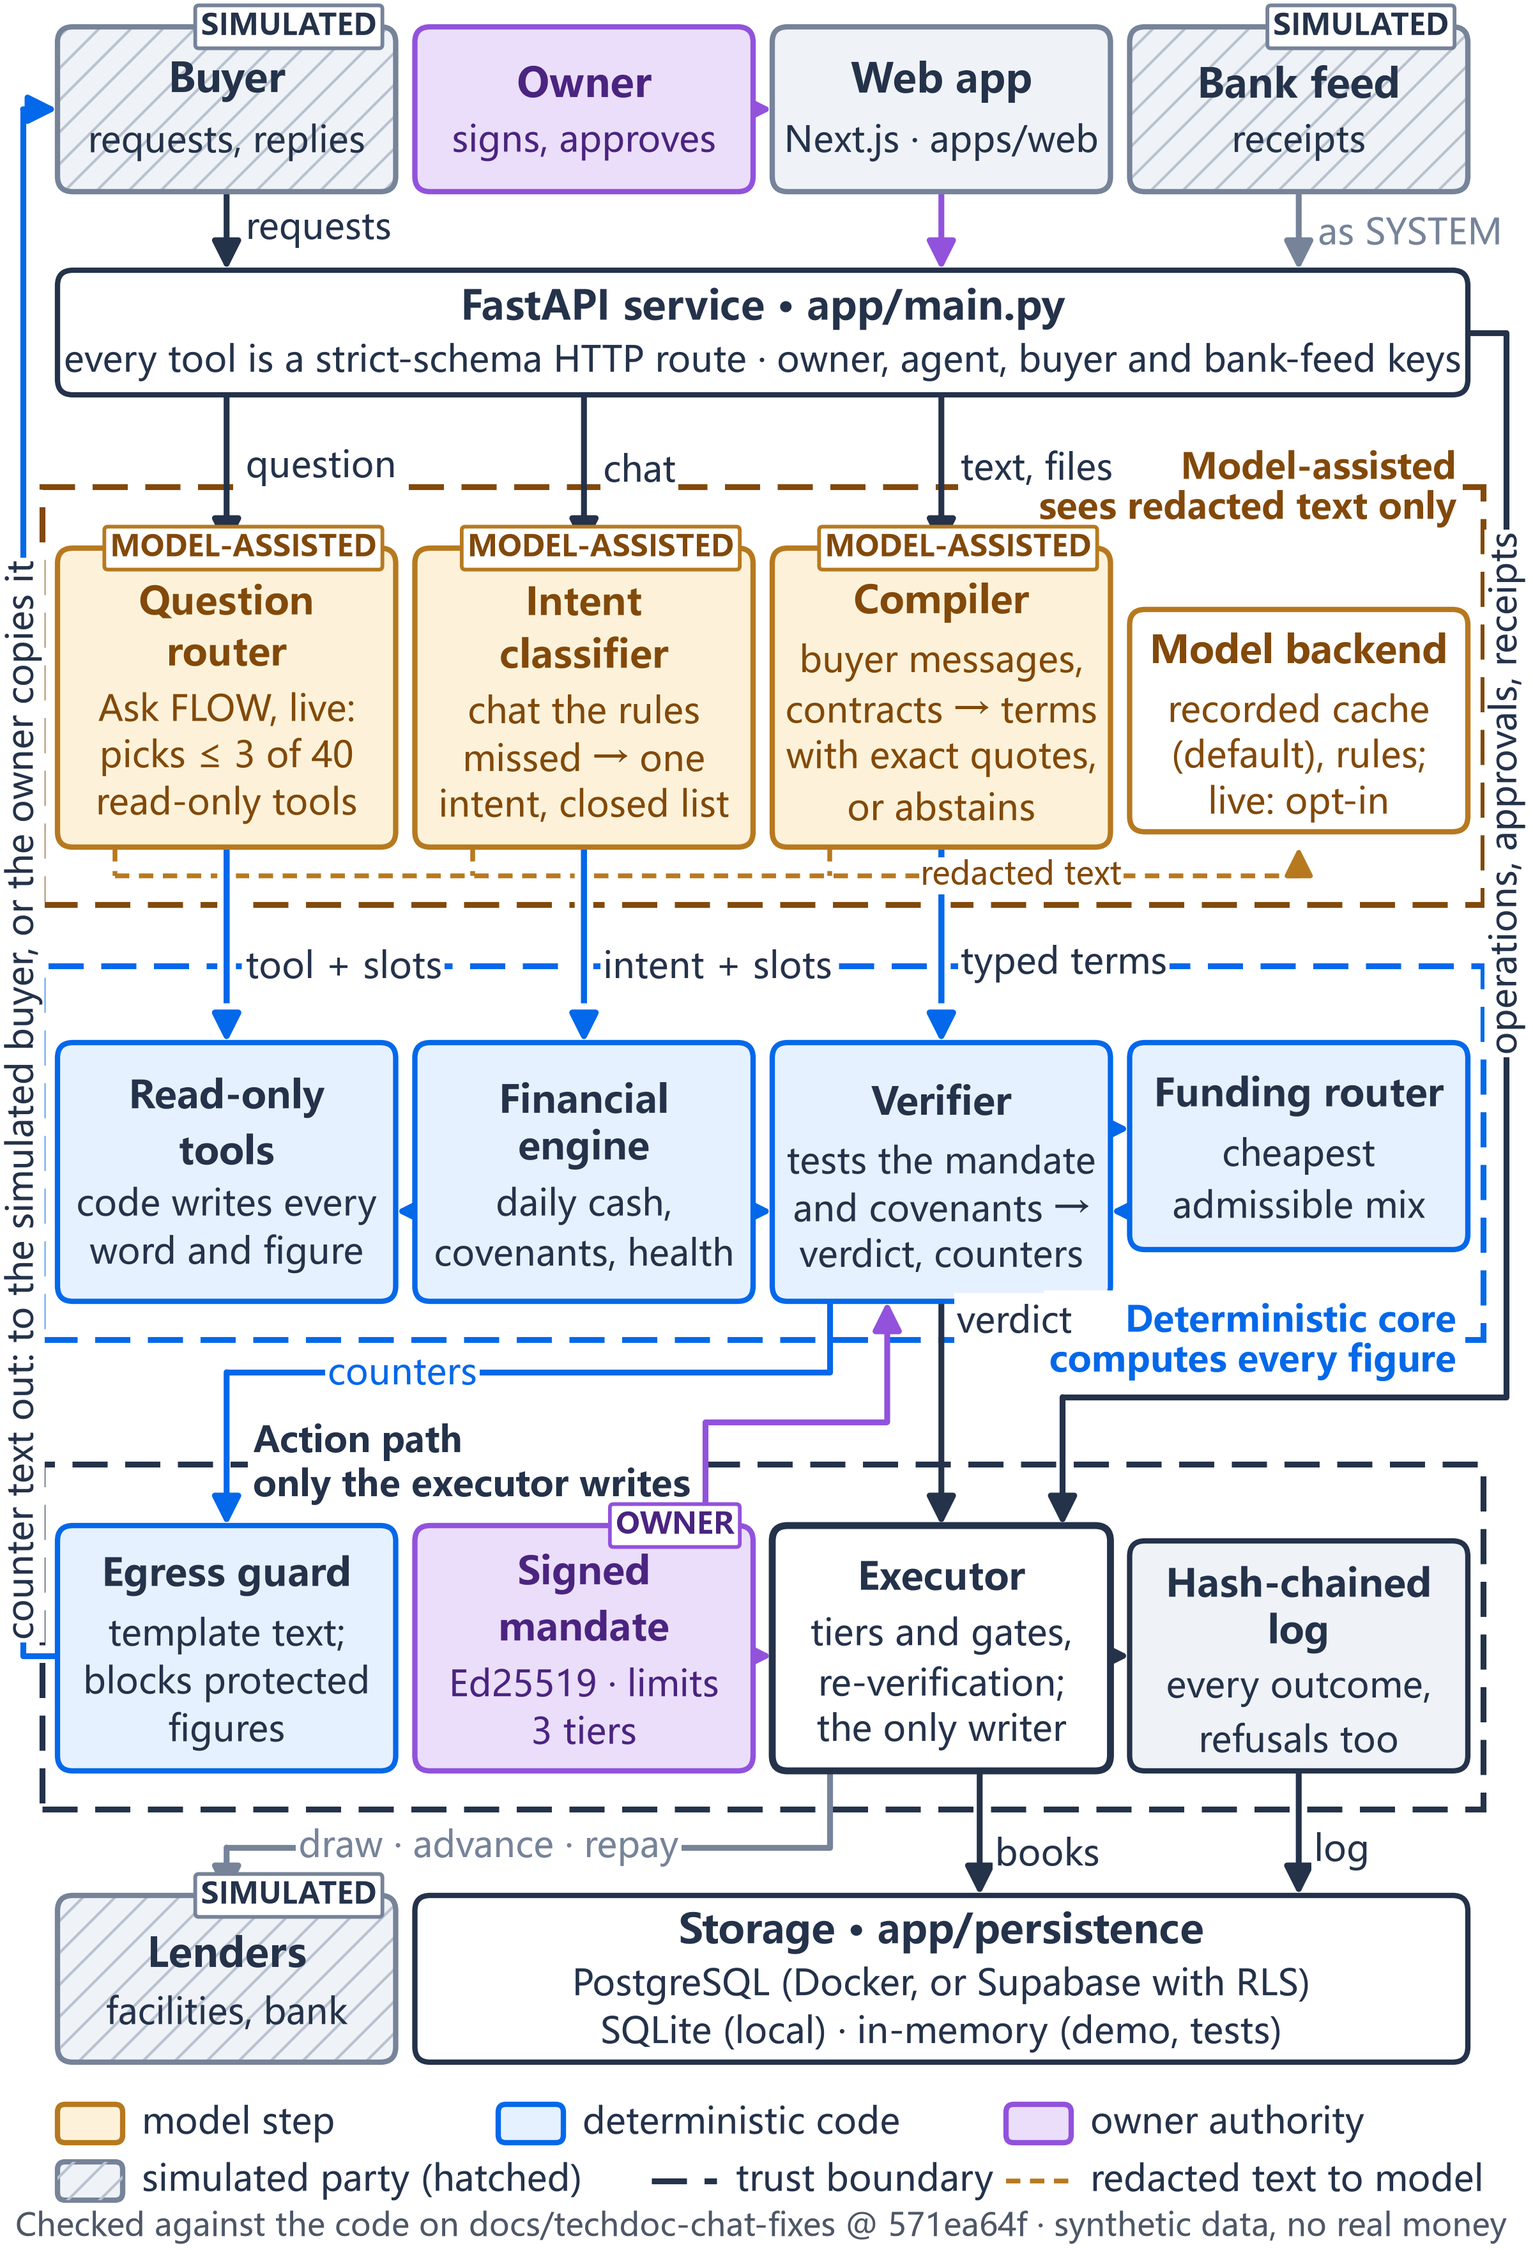
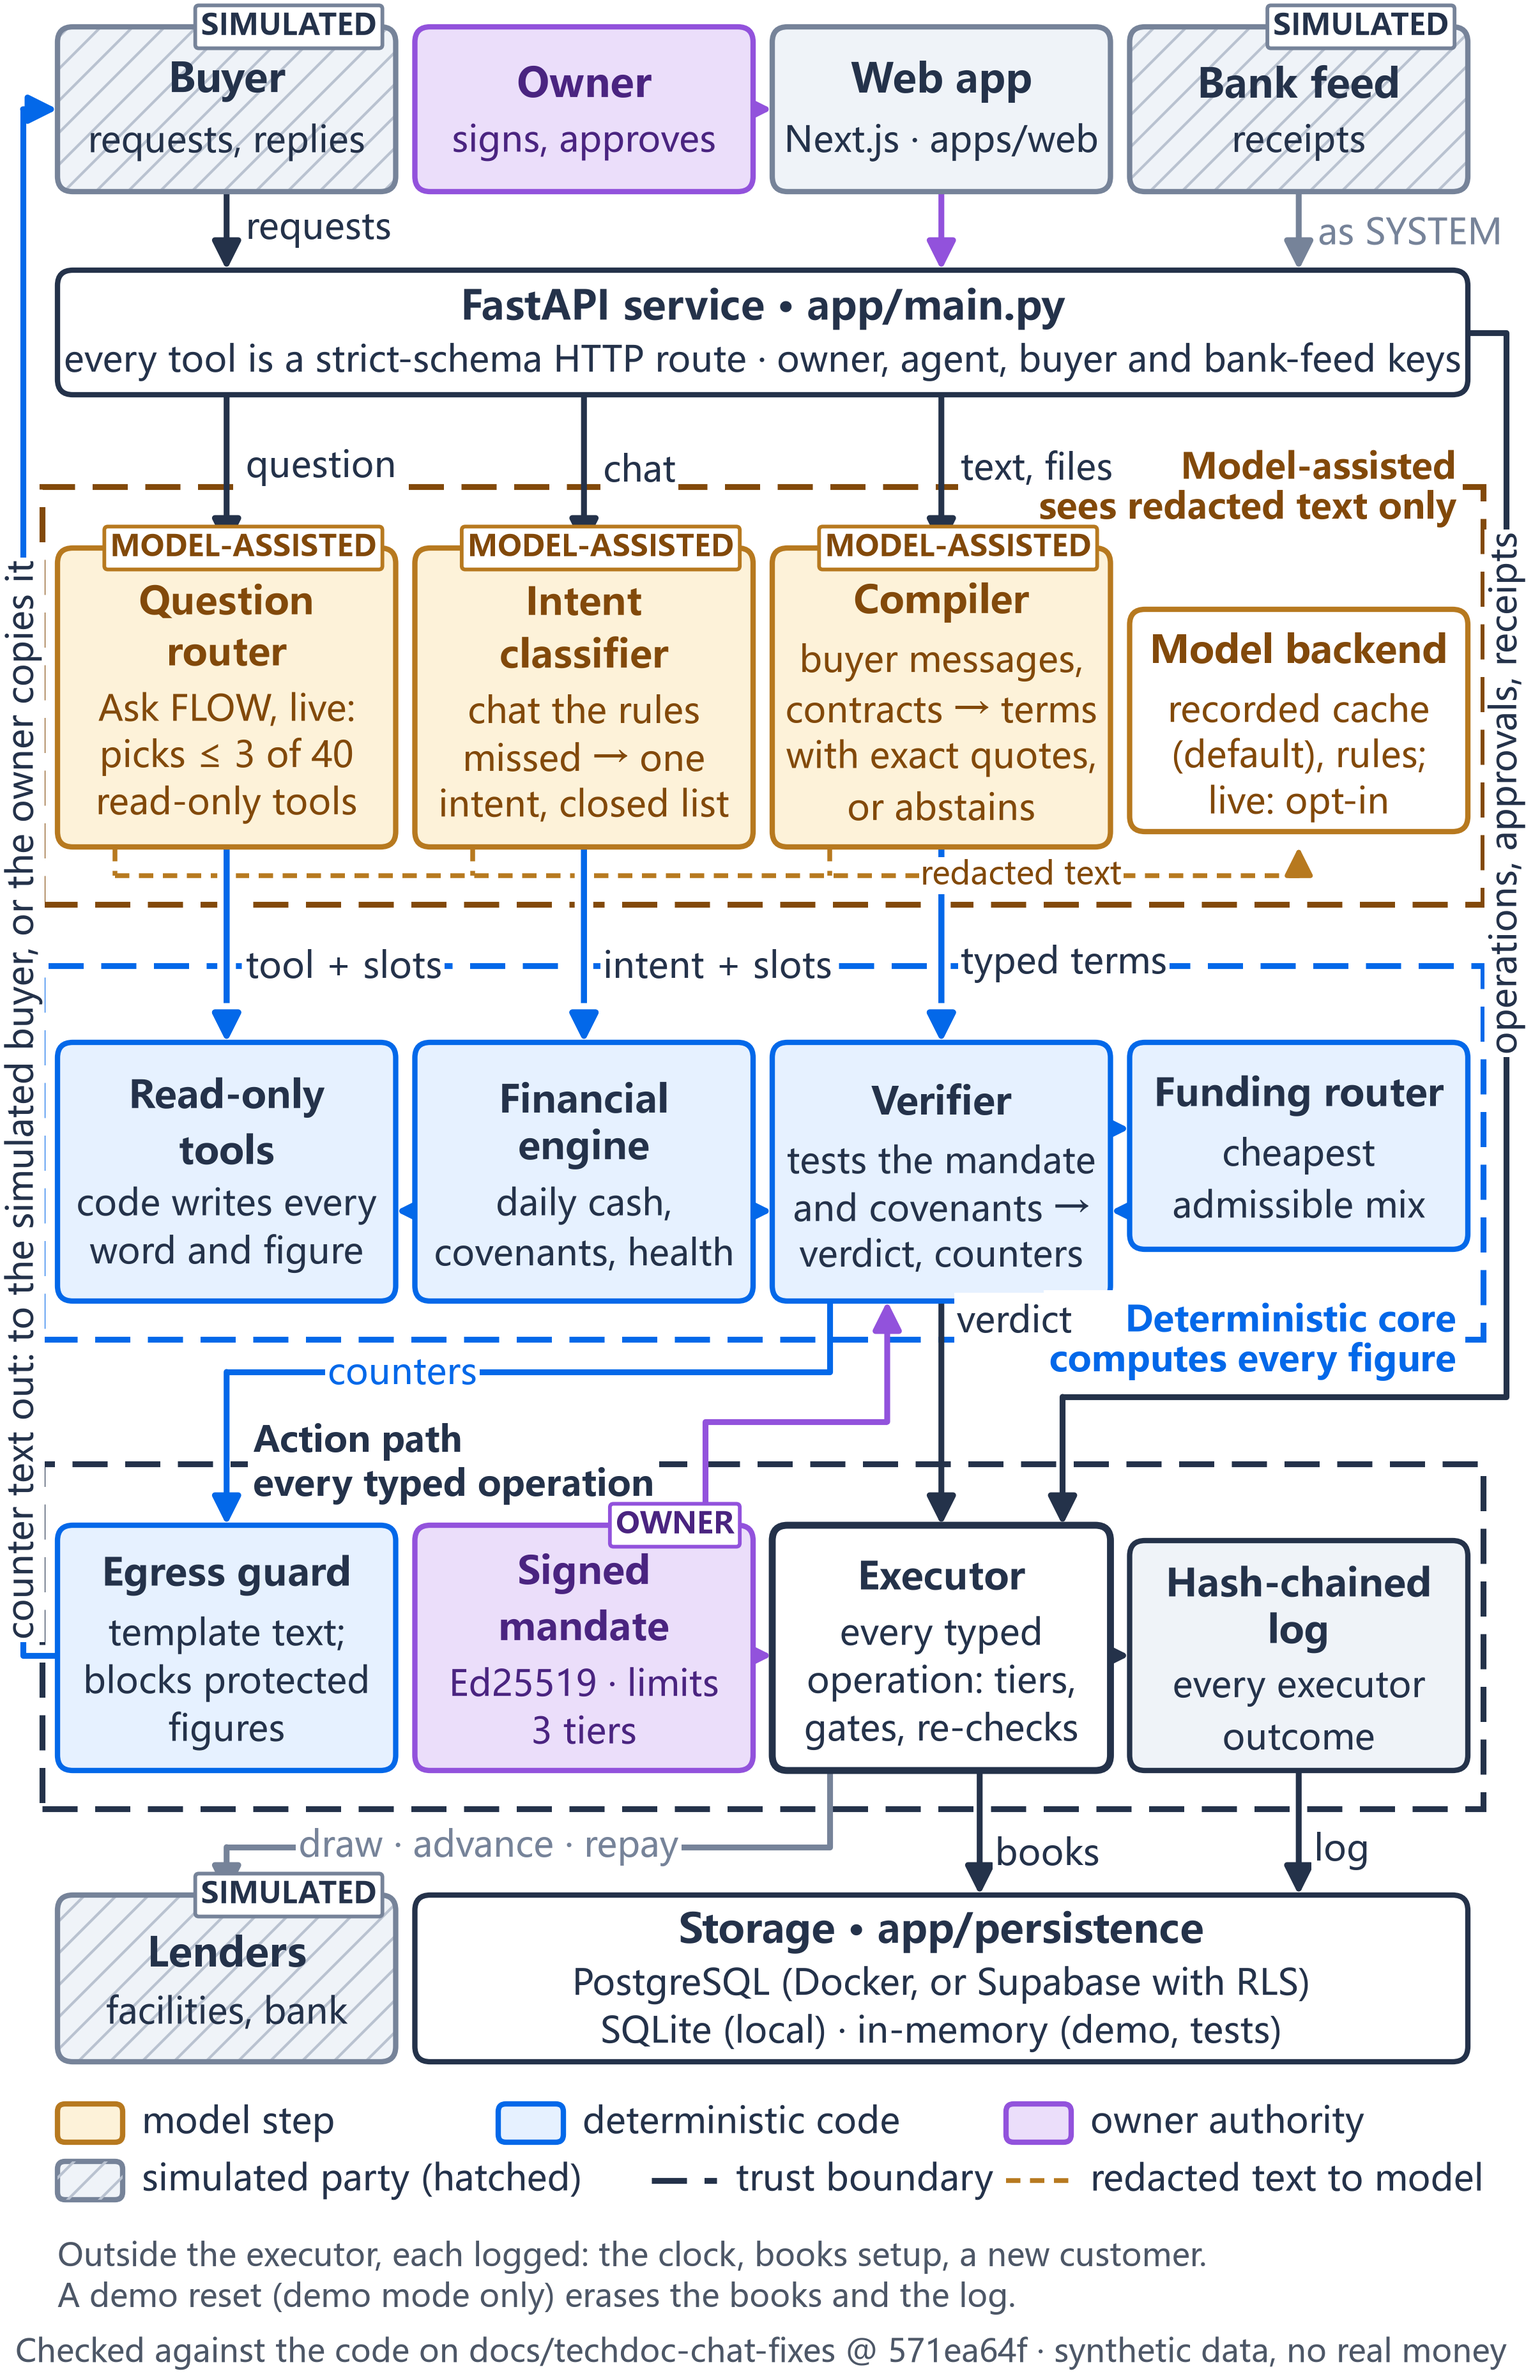
docs(techdoc): scope the executor in fig8, approval wording in fig10
Figure 3 (fig8) said "only the executor writes", "the only writer" and
"every outcome, refusals too"; section 02 and 04 name writes outside
the executor. Figure 7 (fig10) printed "APR <= 15%" as if a hard limit.

- fig8: the action path covers every typed operation; the executor box
  says so; the log keeps every executor outcome; a footnote names the
  logged writes outside it (clock, books setup, a new customer) and the
  demo reset that erases books and log
- fig10: "owner approves APR > 15%, commitment > ¥100k"
- Regenerate both PNGs; README alt text follows

Refs: docs/deliverables/submission/work/claim_register.md E2, D10, D12

diff --git a/docs/deliverables/figures/src/fig8_system_architecture.py b/docs/deliverables/figures/src/fig8_system_architecture.py
@@ -14,8 +14,8 @@ services/api:
        the read-only tools of the closed catalogue with typed slots; the tools (code) write every word and figure.
 - Deterministic: app/financial (trajectory), app/covenants, app/health; app/verifier (verdict, counters); app/funding/router.py;
   app/egress/guard.py (outbound text, POST /negotiate and the outbound message, app/api/decide.py and outbound.py);
-  app/mandate (Ed25519-signed, pinned to the owner key); app/operations/executor.py (tiers, gates, the only writer of the
-  books); app/operations/log.py + app/persistence/chain.py (hash-chained log).
+  app/mandate (Ed25519-signed, pinned to the owner key); app/operations/executor.py (tiers and gates for every typed
+  operation; the clock, books setup and adding a customer write outside it, each logged, and a demo reset erases the books); app/operations/log.py + app/persistence/chain.py (hash-chained log).
 - Simulated: the buyer (app/counterparties, deterministic kernel, or the owner pastes a real buyer's words), the lenders and
   facilities (effects inside the executor) and the bank feed (RECEIVE_PAYMENT as SYSTEM; app/api/demo_bank.py in demo mode).
 - Storage: app/persistence: SqlLedgerStore (PostgreSQL via Docker or Supabase with RLS; SQLite locally) or InMemoryLedgerStore.
@@ -24,11 +24,13 @@ services/api:
 from matplotlib import patheffects as pe
 from matplotlib.patches import FancyBboxPatch, Rectangle
 
-from flowstyle import (AMBER, AMBER_INK, AMBER_SOFT, BLUE, BLUE_SOFT, BUILD, GREY, GREY_HATCH, GREY_SOFT, INK, MIN_PT,
+from flowstyle import (AMBER, AMBER_INK, AMBER_SOFT, BLUE, BLUE_SOFT, BUILD, GREY, GREY_HATCH, GREY_SOFT, INK, INK_2, MIN_PT,
                        PURPLE, PURPLE_SOFT, WHITE, arrow, box, canvas, kbox, save, stamp)
 
 H = 11.74
-fig, ax = canvas(H)
+FOOT = 0.66  # room below y = 0 for the note on writes outside the executor
+fig, ax = canvas(H + FOOT)
+ax.set_ylim(-FOOT, H)  # one data unit is still one inch
 W, G = 1.765, 0.1
 X = [0.3 + i * (W + G) for i in range(4)]  # four columns
 CX = [x + W / 2 for x in X]
@@ -69,7 +71,7 @@ CZ0, CZ1 = 4.75, 6.7
 PZ0, PZ1 = 2.3, 4.1
 zone(MZ0, MZ1, "Model-assisted", "sees redacted text only", AMBER_INK)
 zone(CZ0, CZ1, "Deterministic core", "computes every figure", BLUE, at="bottom-right")
-zone(PZ0, PZ1, "Action path", "only the executor writes", INK, at="top-left")
+zone(PZ0, PZ1, "Action path", "every typed operation", INK, at="top-left")
 
 # model row: router, classifier, compiler, backend
 MY0, MY1 = 7.32, 8.88
@@ -101,9 +103,9 @@ PY0, PY1 = 2.5, 3.78
 box(ax, X[0], PY0, W, PY1 - PY0, "Egress guard", "template text;\nblocks protected\nfigures", fill=BLUE_SOFT, edge=BLUE,
     **T)
 kbox(ax, X[1], PY0, W, PY1 - PY0, "Signed\nmandate", "Ed25519 · limits\n3 tiers", "owner", **T)
-box(ax, X[2], PY0, W, PY1 - PY0, "Executor", "tiers and gates,\nre-verification;\nthe only writer", fill=WHITE, edge=INK,
+box(ax, X[2], PY0, W, PY1 - PY0, "Executor", "every typed\noperation: tiers,\ngates, re-checks", fill=WHITE, edge=INK,
     lw=2.6, **T)
-box(ax, X[3], PY0, W, PY1 - PY0 - 0.08, "Hash-chained\nlog", "every outcome,\nrefusals too", fill=GREY_SOFT, edge=INK,
+box(ax, X[3], PY0, W, PY1 - PY0 - 0.08, "Hash-chained\nlog", "every executor\noutcome", fill=GREY_SOFT, edge=INK,
     **T)
 
 # bottom: simulated lenders, storage
@@ -170,6 +172,9 @@ ax.plot([3.4, 3.74], [LY[1], LY[1]], color=INK, lw=2.2, ls=(0, (6, 3)))
 ax.text(3.84, LY[1], "trust boundary", va="center", fontsize=MIN_PT, color=INK)
 ax.plot([5.25, 5.59], [LY[1], LY[1]], color=AMBER, lw=1.8, ls=(0, (3, 2)))
 ax.text(5.69, LY[1], "redacted text to model", va="center", fontsize=MIN_PT, color=INK)
+ax.text(0.3, -0.36, "Outside the executor, each logged: the clock, books setup, a new customer.\n"
+        "A demo reset (demo mode only) erases the books and the log.", va="bottom", fontsize=12, color=INK_2,
+        linespacing=1.2)
 stamp(fig, f"Checked against the code on {BUILD} · synthetic data, no real money", y_in=0.03)
 
 save(fig, "fig8-system-architecture.png")

diff --git a/docs/deliverables/figures/src/fig10_authority_matrix.py b/docs/deliverables/figures/src/fig10_authority_matrix.py
@@ -126,7 +126,7 @@ ax.text(X0 + 0.14, fy - 0.1, "The signed demo mandate (version 1, Ed25519, days 
         fontweight="bold", color=PURPLE_INK)
 ax.text(X0 + 0.14, fy - 0.42,
         "cash reserve ¥300,000 · discount ≤ 1.5% · future concessions ≤ ¥5,000 a year\n"
-        "DSCR ≥ 1.25× · leverage ≤ 2.5× · APR ≤ 15% · one new commitment ≤ ¥100,000",
+        "DSCR ≥ 1.25× · leverage ≤ 2.5× · owner approves APR > 15%, commitment > ¥100k",
         va="top", fontsize=MIN_PT, color=INK, linespacing=1.25)
 ax.text(X0, 0.3, "No caller can set a tier. An approved Tier 2 operation passes every gate again.",
         va="bottom", fontsize=12, color=INK_2)

diff --git a/docs/deliverables/figures/README.md b/docs/deliverables/figures/README.md
@@ -43,7 +43,7 @@ of 285), 12 wrong values and 18 stage items matching no key item; batch 2 after 
 (hatched, tuned). Live DeepSeek calls (amber): held-out 3 on 1 Oct, 67% (42 of 63), no wrong accepts; Ask router answers
 on 18 Oct, 67% right (22 of 33), 1 wrong and 10 partial. A note says each bar is a share of its own row's denominator and
 rows with different oracles do not compare.
-| `fig8-system-architecture.png` | FLOW's architecture: the three model-assisted steps see redacted text only and propose typed output; deterministic code computes every figure, and only the executor changes the books. | `src/fig8_system_architecture.py` | Read from the code on `docs/techdoc-chat-fixes` `571ea64f`: `app/main.py` routers, `app/compiler`, `app/nl/classifier.py`, `app/nl/router`, `app/egress/guard.py`, `app/operations/executor.py`, `app/persistence` |
+| `fig8-system-architecture.png` | FLOW's architecture: the three model-assisted steps see redacted text only and propose typed output; deterministic code computes every figure, and every typed operation goes through the executor; a footnote names the logged writes outside it (clock, books setup, a new customer) and the demo reset. | `src/fig8_system_architecture.py` | Read from the code on `docs/techdoc-chat-fixes` `571ea64f`: `app/main.py` routers, `app/compiler`, `app/nl/classifier.py`, `app/nl/router`, `app/egress/guard.py`, `app/operations/executor.py`, `app/persistence` |
 | `fig9-request-to-settlement.png` | One buyer request from request to settlement, marking what is only proposed, what is authorised, what is recorded and what has actually settled. | `src/fig9_request_to_settlement.py` | `app/api/offers.py`, `decide.py`, `accept.py`, `outbound.py`, the executor's `AcceptOffer`, `app/commitments`, `app/api/alerts.py`, `app/alerts/reconcile.py` (`571ea64f`) |
 | `fig10-authority-matrix.png` | The authority matrix: what FLOW may do inside the signed mandate (Tier 1), what waits for the owner (Tier 2) and what is refused whoever asks (Tier 3), with the demo mandate's limits. | `src/fig10_authority_matrix.py` | `app/mandate/tiers.py` `tier_for`; `fixtures/scenarios/golden_sme.mandate.signed.json` (`571ea64f`) |
 | `fig11-cash-scenarios.png` | The demo company's closing cash under four scenarios, days 0 to 62, against the ¥300,000 reserve, with nine dated events. Supersedes `fig4-golden-cash.png` in the technical document (Figure 4). | `src/fig11_cash_scenarios.py` | `../submission/work/fin/daily_cash.csv` and `events.csv` (financial audit, 18 Oct 2026): the independent recomputation from the golden fixtures, equal to the engine replayed through the API to the fen (`work/fin/compare.csv`, 39 of 39) |
@@ -68,9 +68,9 @@ helper shows a complete example; the financial chart of `docs/sub-financial-audi
   router, the intent classifier and the compiler, each sending redacted text to a model backend (recorded cache by default,
   a live provider only when opted in) and passing only typed output down. The deterministic core holds the read-only tools,
   the financial engine, the verifier and the funding router. The action path holds the egress guard, the owner-signed
-  mandate, the executor and the hash-chained log. The executor alone writes the books to storage (PostgreSQL, SQLite or
+  mandate, the executor and the hash-chained log. The executor writes every typed operation to storage (PostgreSQL, SQLite or
   in memory) and moves money only on simulated lenders; counter text leaves through the egress guard to the simulated buyer,
-  or the owner copies it.
+  or the owner copies it. A footnote names the writes outside the executor, each logged, and the demo reset.
 - **fig9-request-to-settlement.png.** Vertical flow of eleven steps with a status bracket on the right. Steps 1 to 6
   (request, reading, verdict and counters, owner gate, send by simulated channel or by the owner's manual copy, reply from
   the simulated buyer or reported by the owner) are bracketed "proposed terms: nothing binds, no money moves". Step 7, the
